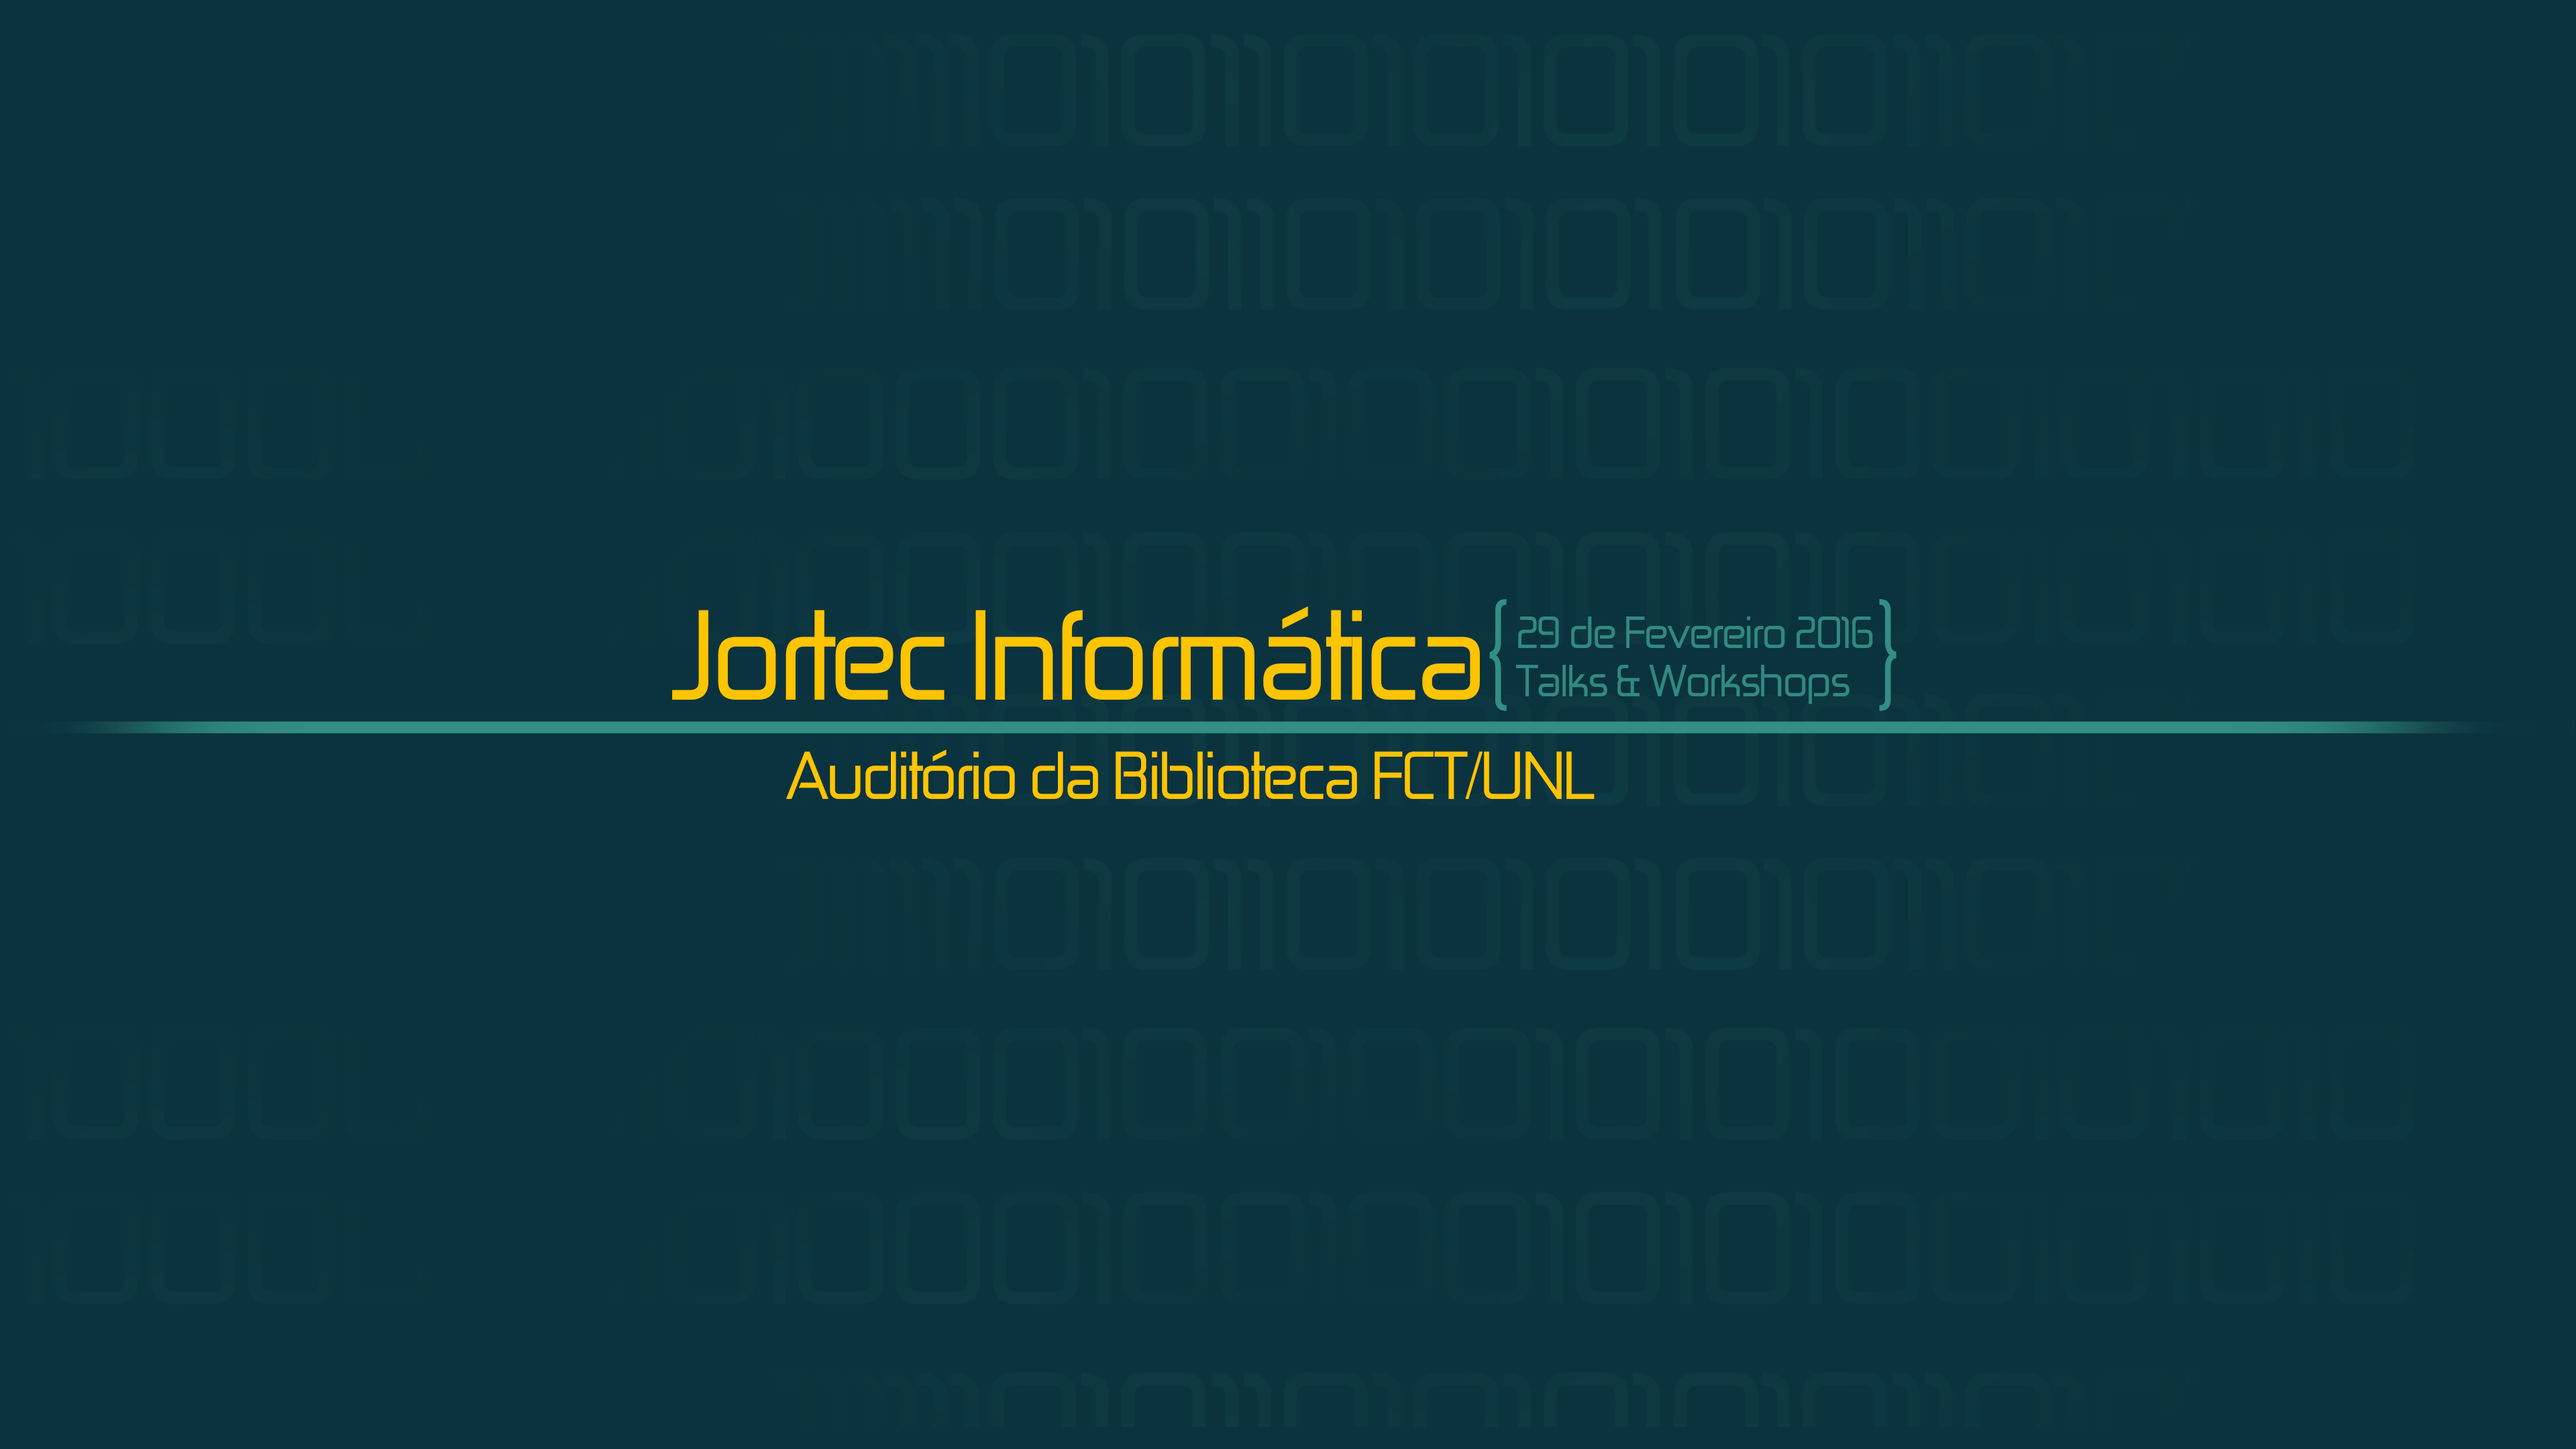
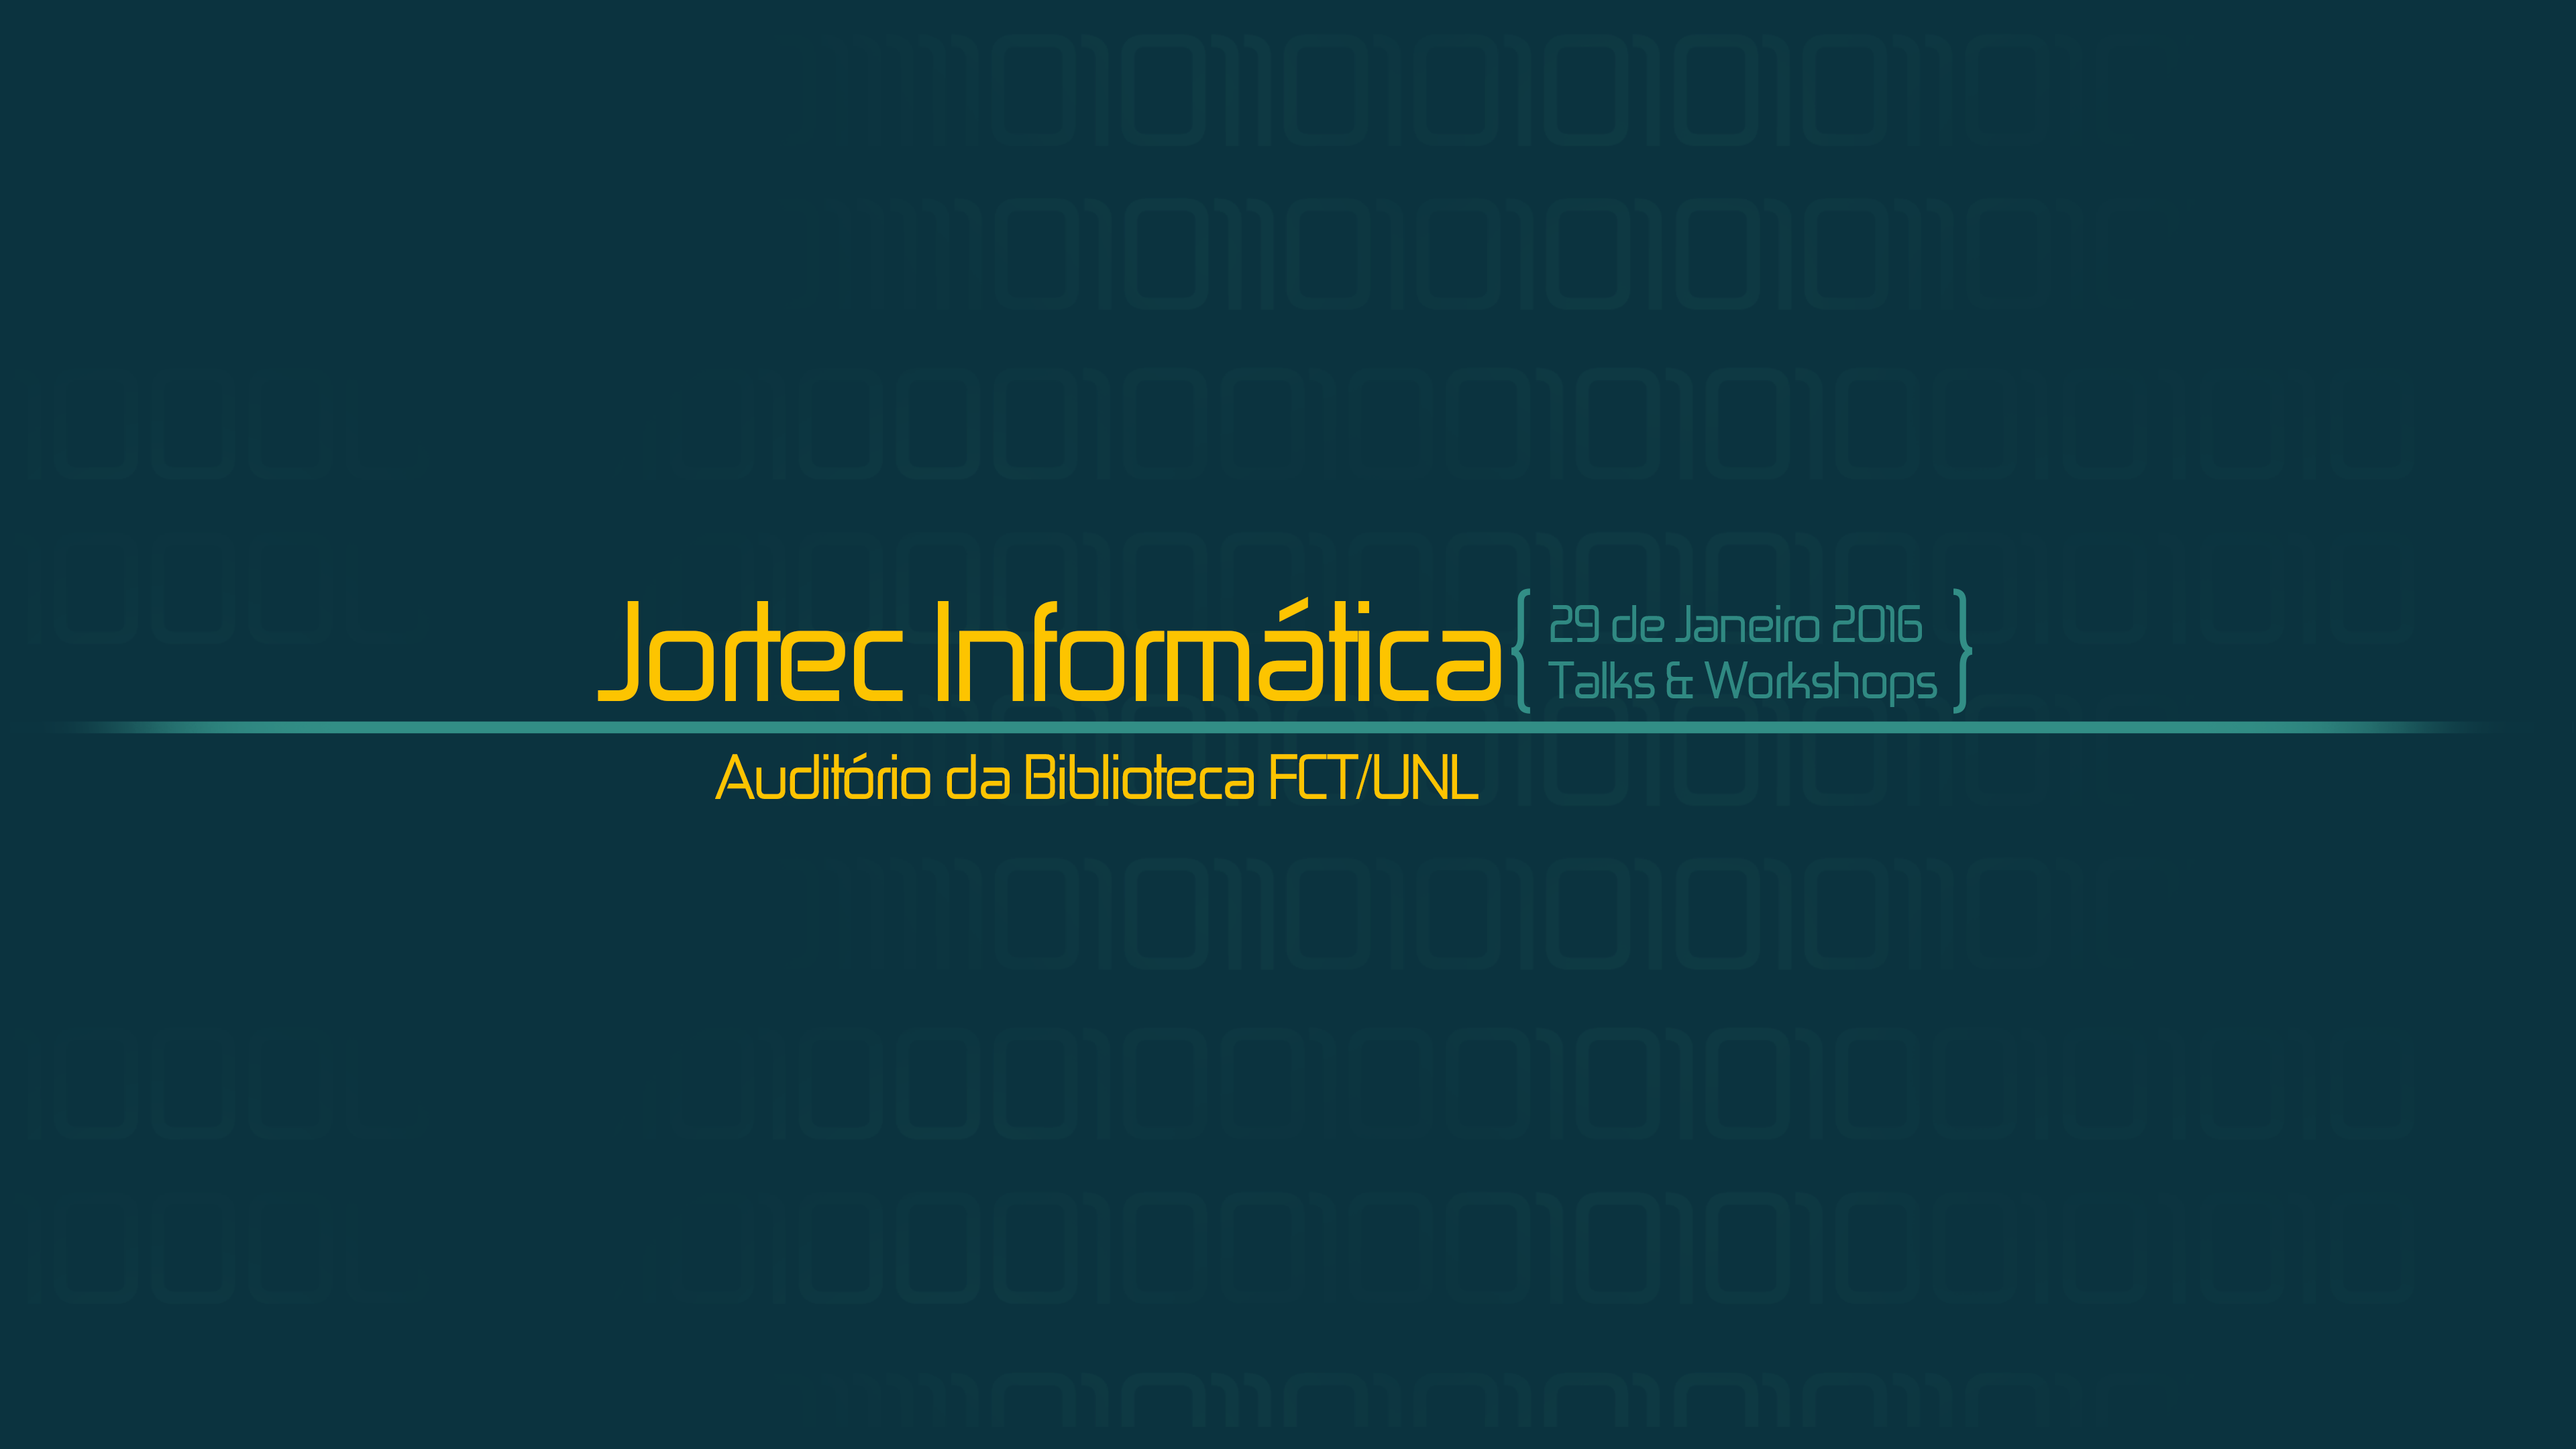
Fixed dates

Changed region(s): [[0.2188, 0.4032, 0.75, 0.5583]]

diff --git a/index.html b/index.html
@@ -107,7 +107,7 @@
       <p class="section-subheading text-muted" style="font-size:16px;">
         Bem-vindos à página oficial das Jortec Informática 2016!
         <br><br>
-        No dia 29 de Fevereiro, a Faculdade de Ciências e Tecnologia da Universidade Nova de Lisboa (FCT/UNL) vai receber mais uma edição das Jornadas Tecnologicas de Informática.<br><br>
+        No dia 29 de Janeiro, a Faculdade de Ciências e Tecnologia da Universidade Nova de Lisboa (FCT/UNL) vai receber mais uma edição das Jornadas Tecnologicas de Informática.<br><br>
         Durante o período da manhã irão decorrer várias palestras sobre diversos temas nas áreas de TI, onde vão marcar presença vários profissíonais de renome e que nos vêm contar a sua história de carreira até aos dias de hoje.
         Durante o período da tarde irão decorrer vários workshops em simultâneo com o apoio de várias empresas desta área.
         <br><br>
@@ -308,14 +308,12 @@
 
       <div class="col-lg-12 text-center">
         <h2 class="section-heading">Patrocinadores</h2>
-        <h4 class="section-heading">Brevemente</h4>
       </div>
 
-<!--
       <div class="col-md-3 col-sm-6">
         <img src="img/logos/deloitte.png" class="img-responsive img-centered" alt="">
       </div>
-    -->
+
     </div>
   </div>
 </aside>
